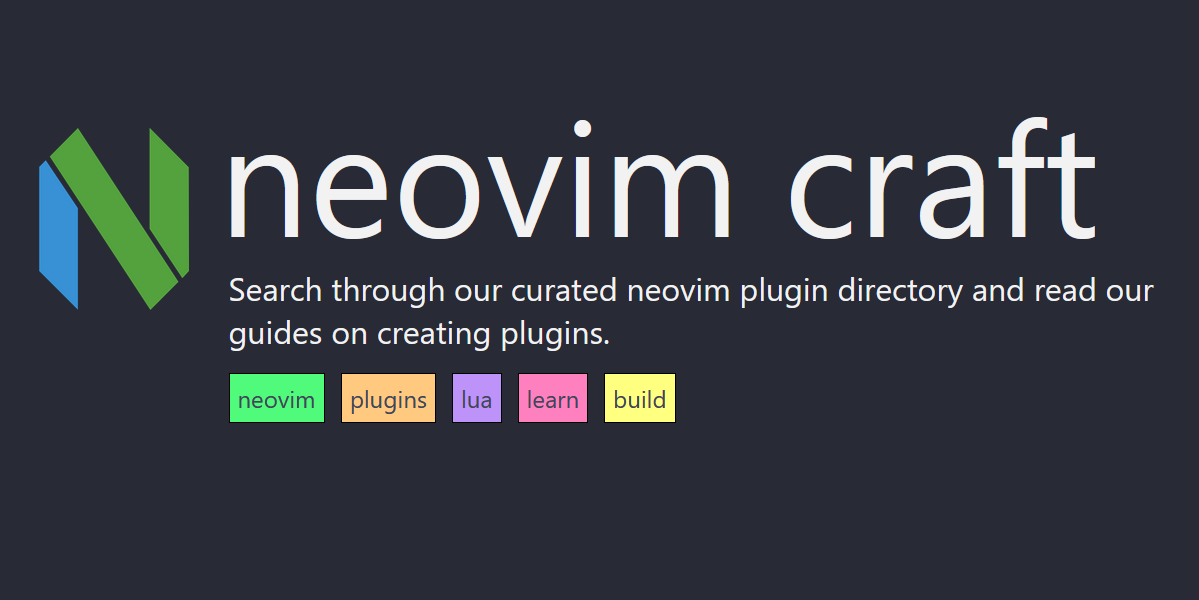
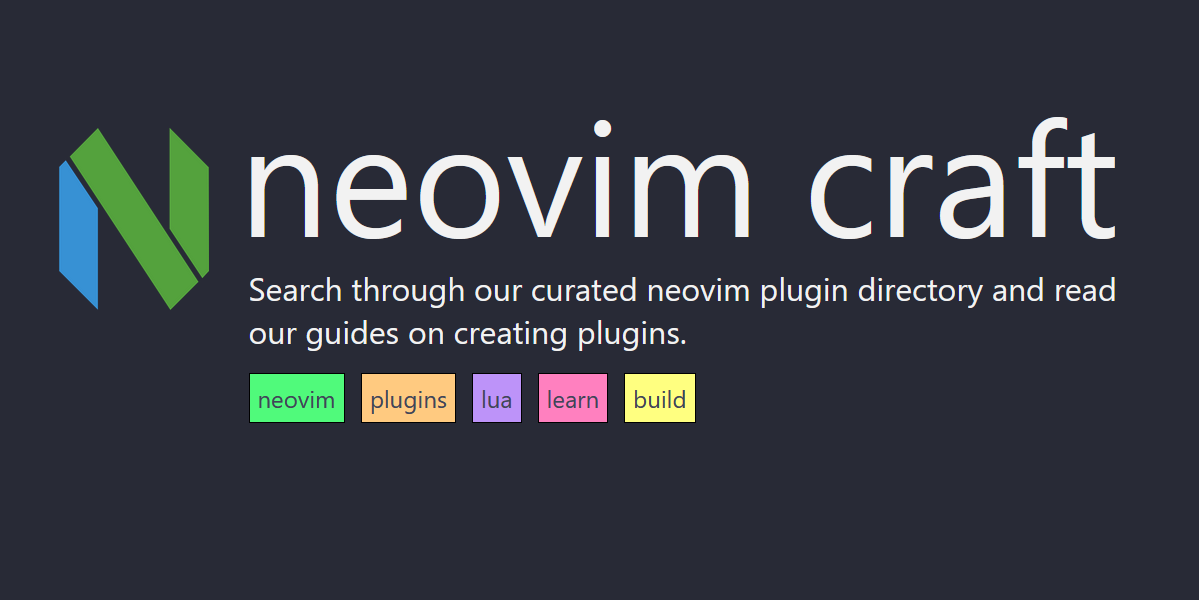
padding

Changed region(s): [[0.0309, 0.18, 0.9566, 0.51], [0.1852, 0.54, 0.5863, 0.72], [0.0, 0.99, 1.0, 1.0]]

diff --git a/src/routes/meta-image.svelte b/src/routes/meta-image.svelte
@@ -45,7 +45,7 @@
     width: 1200px;
     height: 600px;
     background-color: var(--bg-color);
-    padding: 90px 40px;
+    padding: 90px 60px;
   }
 
   .top {
